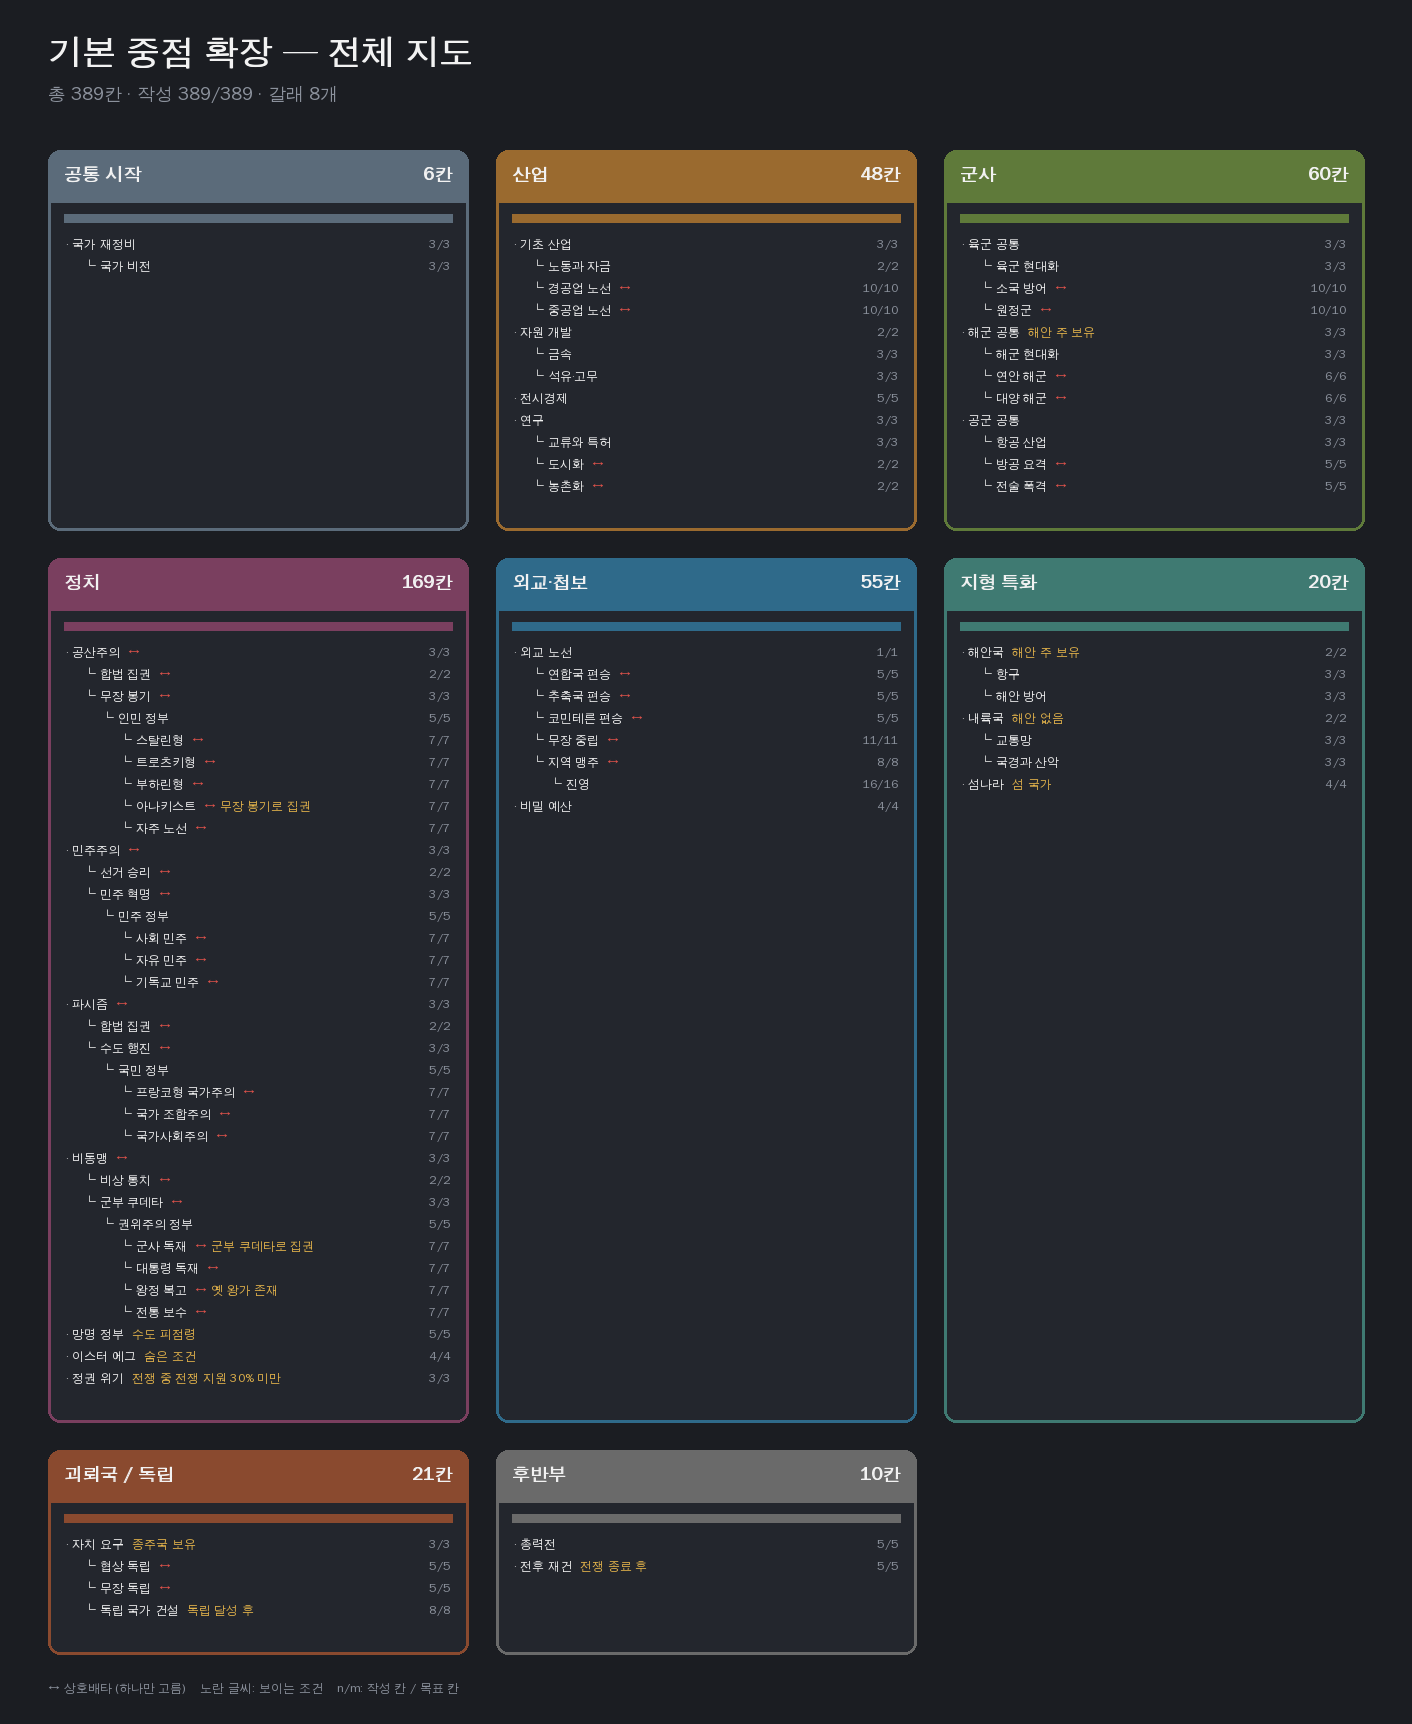
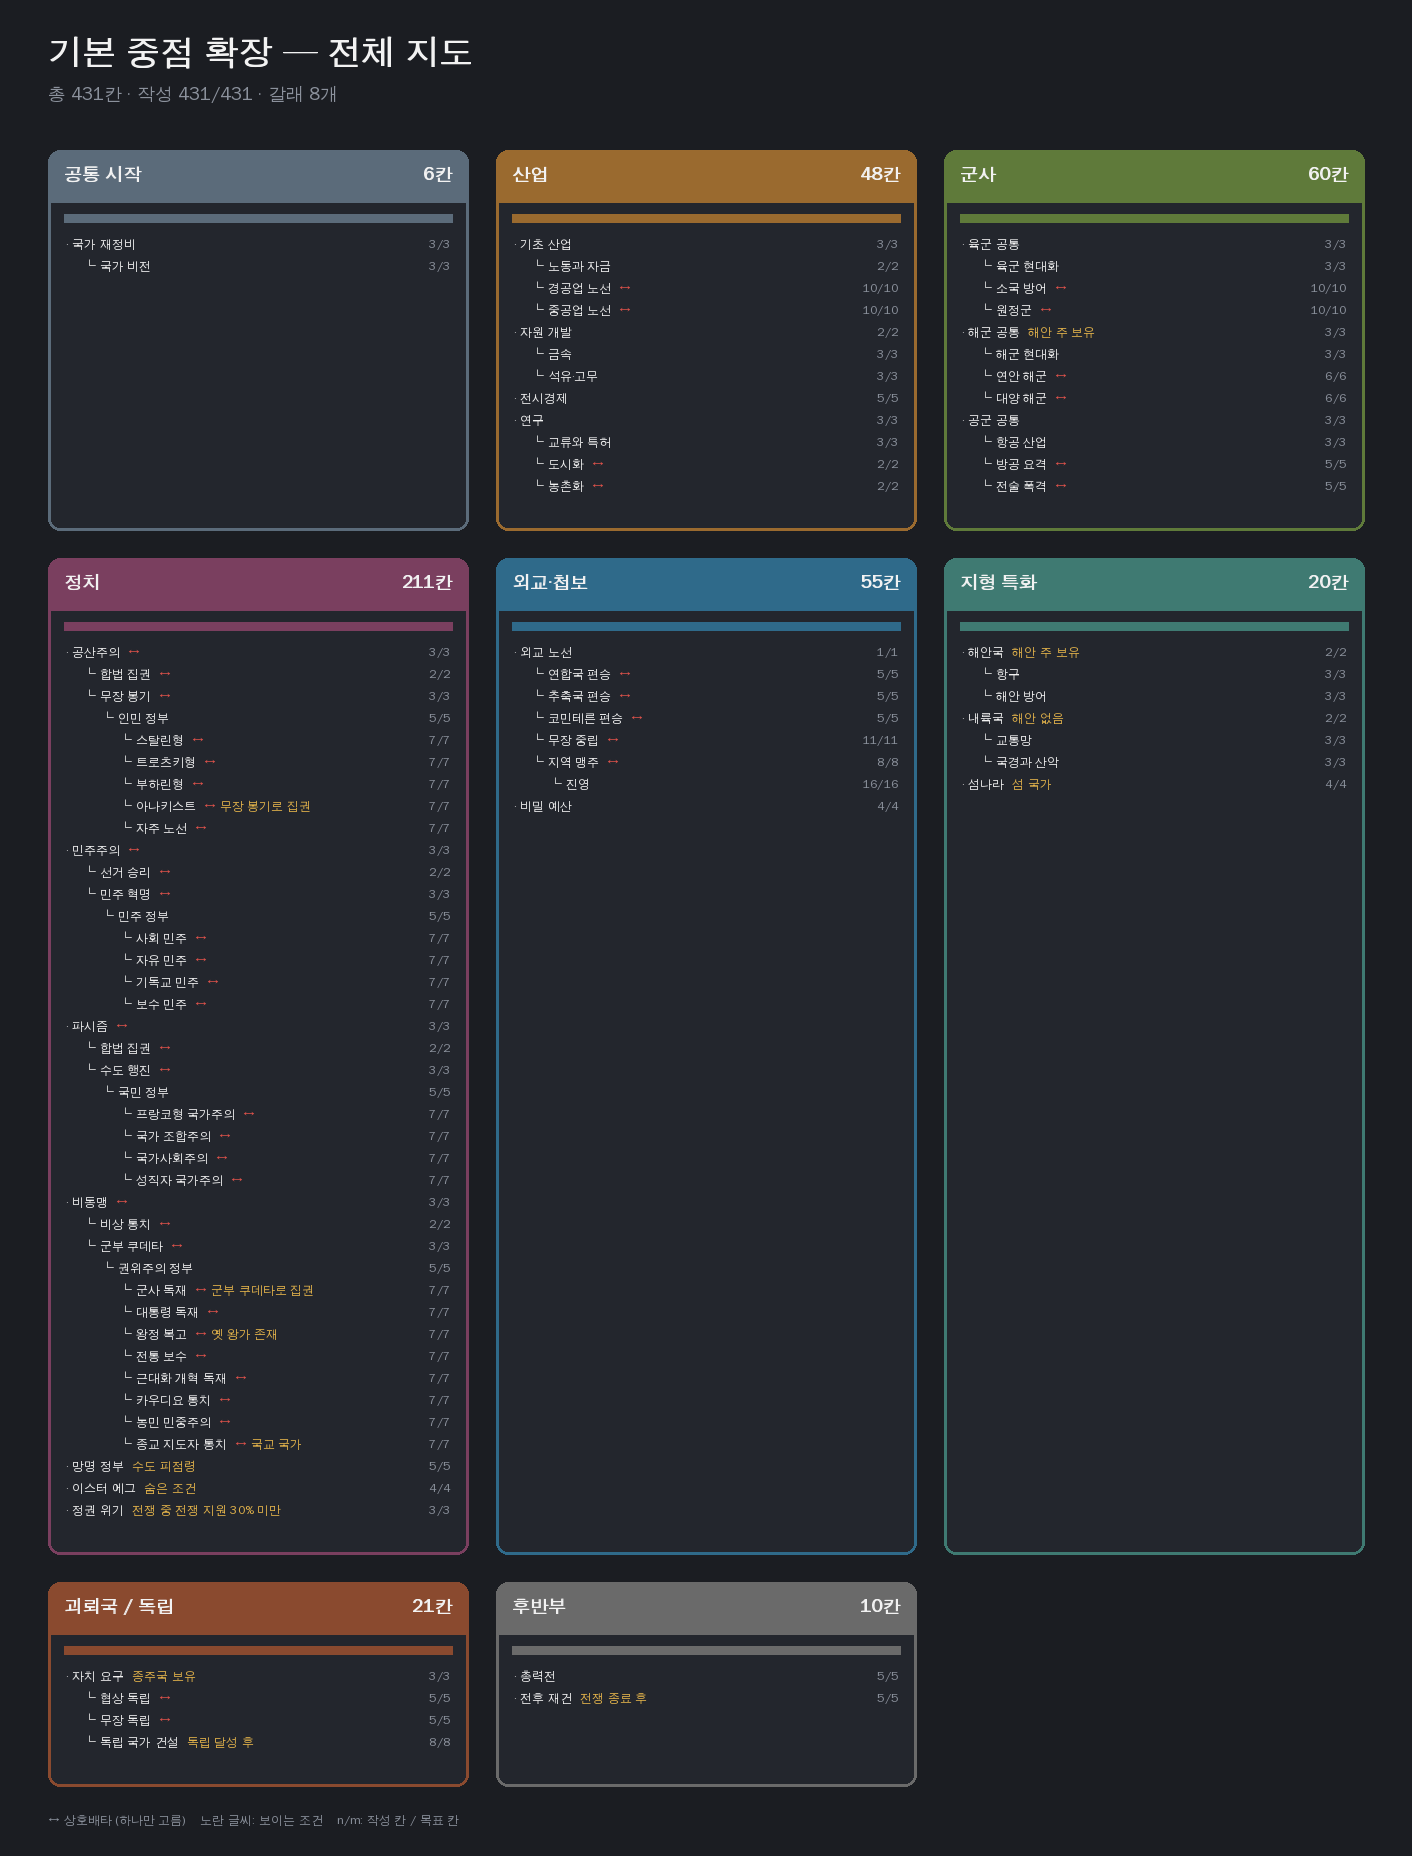
Add more ruling models to politics
Non-aligned grows from four models to eight: modernising reform
dictatorship (Kemalist), caudillo rule, agrarian populism and clerical
rule. Democracy gains conservative democracy and fascism gains clerical
nationalism, so each now offers four models.

Claude-Session: https://claude.ai/code/session_01EV9WLLkUNfyAmE79ST4UtP

diff --git a/design/generic_tree/SPEC.md b/design/generic_tree/SPEC.md
@@ -1,6 +1,6 @@
 # 기본 중점 확장 — 구성 데이터 규격
 
-HOI4 기본(제네릭) 포커스 트리를 약 390칸으로 새로 짜는 **설계 단계** 자료다. 게임 코드가 아니라 구성안이다.
+HOI4 기본(제네릭) 포커스 트리를 약 430칸으로 새로 짜는 **설계 단계** 자료다. 게임 코드가 아니라 구성안이다.
 `data/*.json` 을 `check.py` 가 검사하고 `render.py` 가 읽어 `img/` 에 트리 그림을 만든다.
 작업 분담과 절차는 `AGENTS.md` 에 있다.
 
